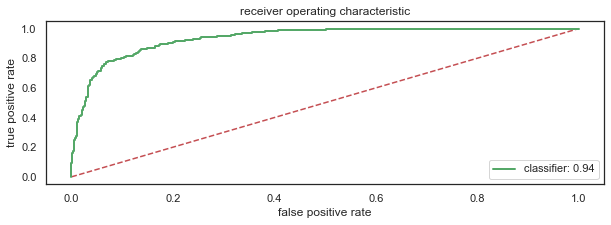
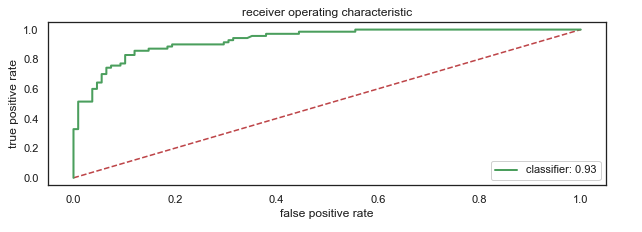
updates

Changed region(s): [[0.0, 0.0311, 0.9951, 0.9644]]

diff --git a/project-three.html b/project-three.html
@@ -92,7 +92,7 @@
                     <p class="body-text2 col-lg-12 col-md-12 wow fadeIn" data-wow-duration="1.5" data-wow-delay="1s">The analysis sought to understand the compounded returns (not including dividends) the index produced in the above time frames.</br></br>
                     A/B were used to infer if the difference in means of prices between decades were statistically significant. The goal was to observe if the closing prices were higher or lower between the time frames and determine the investment risk.</br></br>
                     If the prices were higher in each new decade and statistically significant, intuitively, this was determined to be a positive sign and that the index was producing profits; the opposite was true for the opposite results.</br></br>
-                    In addition to the above, the analysis observed trends in economic data regarding U.S Real GDP, S&P 500 Index EPS, Ten Year U.S Treasury Bond Yields, and Average Annual U.S Inflation to aid in the analysis.</br></br>
+                    In addition to the above, the analysis observed trends in economic data regarding U.S Real GDP, S&P 500 Index EPS, Ten Year U.S Treasury Bond Yields, and Average Annual U.S Inflation over the same time period to aid in the analysis.</br></br>
                     The analysis can be taken advantage of by any individual or entity looking for a valuable investment opportunity.
                     </p>
                 </div>                
@@ -102,16 +102,12 @@
                 <div class="row">
                     <h3 class="sub-head center mt-5 mb-4 col-lg-12 col-md-12 wow fadeIn" data-wow-duration="1.5" data-wow-delay="0.5s">Methods Used</h3>
                     
-                        <div class="col-lg-4 col-md-6 col-sm-12 mt-5 wow fadeInUp" >
+                        <div class="col-lg-6 col-md-6 col-sm-12 mt-5 wow fadeInUp" >
                           <img class="methods" src="/assets/images/method-one.svg" alt="image">
                         </div>
             
-                        <div class="col-lg-4 col-md-6 col-sm-12 mt-5  wow fadeInUp" data-wow-delay="0.1s">
+                        <div class="col-lg-6 col-md-6 col-sm-12 mt-5  wow fadeInUp" data-wow-delay="0.1s">
                           <img class="methods" src="/assets/images/method-three.svg" alt="image">
-                        </div>
-            
-                        <div class="col-lg-4 col-md-6 col-sm-12 mt-5  wow fadeInUp" data-wow-delay="0.2s">
-                          <img class="methods" src="/assets/images/method-six.svg" alt="image">
                         </div>
 
                 </div>
@@ -135,10 +131,9 @@
                         <h5 class="mt-5 bold">Decade 1 and Decade 2:</h5>
                         <a class="fancybox" data-fancybox="images" href="/assets/images/image1.png"><img class="img" src="/assets/images/image1.png" alt="image"></a>
                         <ul>
-                            <li>With 95% confidence, the difference in mean closing prices can be found between <span class="list-bold">- $386.29 and -$366.81 (dist: $166.9, $176.64, $186.38).</span></li>
-                            <li>The index returned a simulated average compounded return of 6% and at no time during the simulation had prices been lesser in decade 2 than in decade 1.</li>
+                            <li>With 95% confidence, the difference in mean closing prices can be found between <span class="list-bold">-$386.29 and -$366.81 (dist: $166.9, $176.64, $186.38).</span></li>
                             <li>If The investor bought the S&P 500 Index at the beginning of Decade 1 and sold at the end of Decade 2 (20 years), the investor would have earned an actual.</li>
-                            <li>20Yrs compounded return of <span class="list-bold">14%.</span></li>
+                            <li>20Yr compounded return of <span class="list-bold">14%.</span></li>
                         </ul>
                     </div>
 
@@ -146,10 +141,9 @@
                         <h5 class="mt-5 bold">Decade 1 and Decade 3:</h5>
                         <a class="fancybox" data-fancybox="images" href="/assets/images/image2.png"><img class="img" src="/assets/images/image2.png" alt="image"></a>
                         <ul>
-                            <li>With 95% confidence, the difference in mean closing prices can be found between <span class="list-bold">- $1056.13 and -$1041.1 (dist: $169.13, $176.64, $184.16).</span></li>
-                            <li>The index returned a simulated average compounded return of 7% and at no time during the simulation had prices been lesser in decade 3 than in decade 1.</li>
+                            <li>With 95% confidence, the difference in mean closing prices can be found between <span class="list-bold">-$1056.13 and -$1041.1 (dist: $169.13, $176.64, $184.16).</span></li>
                             <li>If The investor bought the S&P 500 Index at the beginning of Decade 1 and sold at the end of Decade 3 (30 years), the investor would have earned an actual.</li>
-                            <li>30Yrs compounded return of <span class="list-bold">8%.</span></li>
+                            <li>30Yr compounded return of <span class="list-bold">8%.</span></li>
                         </ul>
                     </div>
 
@@ -157,10 +151,9 @@
                         <h5 class="mt-3 bold">Decade 1 and Decade 4:</h5>
                         <a class="fancybox" data-fancybox="images" href="/assets/images/image3.png"><img class="img" src="/assets/images/image3.png" alt="image"></a>
                         <ul>
-                            <li>With 95% confidence, the difference in mean closing prices can be found between <span class="list-bold">- $1611.35 and -$1566.89 (dist: $154.42, $176.64, $198.88).</span></li>
-                            <li>The index returned a simulated average compounded return of 6% and at no time during the simulation had prices been lesser in decade 4 than in decade 1.</li>
+                            <li>With 95% confidence, the difference in mean closing prices can be found between <span class="list-bold">-$1611.35 and -$1566.89 (dist: $154.42, $176.64, $198.88).</span></li>
                             <li>If The investor bought the S&P 500 Index at the beginning of Decade 1 and sold at the end of Decade 4 (40 years), the investor would have earned an actual.</li>
-                            <li>40Yrs compounded return of <span class="list-bold">8%.</span></li>
+                            <li>40Yr compounded return of <span class="list-bold">8%.</span></li>
                         </ul>
                     </div>
 
@@ -168,10 +161,9 @@
                         <h5 class="mt-3 bold">Decade 2 and Decade 3:</h5>
                         <a class="fancybox" data-fancybox="images" href="/assets/images/image4.png"><img class="img" src="/assets/images/image4.png" alt="image"></a>
                         <ul>
-                            <li>With 95% confidence, the difference in mean closing prices can be found between <span class="list-bold">- $683.86 and -$660.27 (dist: $541.4, $553.19, $564.99).</span></li>
-                            <li>The index returned a simulated average compounded return of 4% and at no time during the simulation had prices been lesser in decade 3 than in decade 2.</li>
+                            <li>With 95% confidence, the difference in mean closing prices can be found between <span class="list-bold">-$683.86 and -$660.27 (dist: $541.4, $553.19, $564.99).</span></li>
                             <li>If The investor bought the S&P 500 Index at the beginning of Decade 2 and sold at the end of Decade 3 (20 years), the investor would have earned an actual.</li>
-                            <li>20Yrs compounded return of <span class="list-bold">6%.</span></li>
+                            <li>20Yr compounded return of <span class="list-bold">6%.</span></li>
                         </ul>
                     </div>
 
@@ -179,10 +171,9 @@
                         <h5 class="mt-3 bold">Decade 2 and Decade 4:</h5>
                         <a class="fancybox" data-fancybox="images" href="/assets/images/image5.png"><img class="img" src="/assets/images/image5.png" alt="image"></a>
                         <ul>
-                            <li>With 95% confidence, the difference in mean closing prices can be found between <span class="list-bold">- $1236.59 and -$1188.55 (dist: $529.18, $553.19, $577.22).</span></li>
-                            <li>The index returned a simulated average compounded return of 4% and at no time during the simulation had prices been lesser in decade 4 than in decade 2.</li>
+                            <li>With 95% confidence, the difference in mean closing prices can be found between <span class="list-bold">-$1236.59 and -$1188.55 (dist: $529.18, $553.19, $577.22).</span></li>
                             <li>If The investor bought the S&P 500 Index at the beginning of Decade 2 and sold at the end of Decade 4 (30 years), the investor would have earned an actual.</li>
-                            <li>30Yrs compounded return of <span class="list-bold">8%.</span></li>
+                            <li>30Yr compounded return of <span class="list-bold">8%.</span></li>
                         </ul>
                     </div>
 
@@ -190,17 +181,18 @@
                         <h5 class="mt-3 bold">Decade 3 and Decade 4:</h5>
                         <a class="fancybox" data-fancybox="images" href="/assets/images/image6.png"><img class="img" src="/assets/images/image6.png" alt="image"></a>
                         <ul>
-                            <li>With 95% confidence, the difference in mean closing prices can be found between <span class="list-bold">- $563.71 and -$517.3 (dist: $1202.06, $1225.26, $1248.47).</span></li>
-                            <li>The index returned a simulated average compounded return of 2% and at no time during the simulation had prices been lesser in decade 4 than in decade 3.</li>
+                            <li>With 95% confidence, the difference in mean closing prices can be found between <span class="list-bold">-$563.71 and -$517.3 (dist: $1202.06, $1225.26, $1248.47).</span></li>
                             <li>If The investor bought the S&P 500 Index at the beginning of Decade 3 and sold at the end of Decade 4 (10 years), the investor would have earned an actual.</li>
-                            <li>20Yrs compounded return of <span class="list-bold">4%.</span></li>
+                            <li>20Yr compounded return of <span class="list-bold">4%.</span></li>
                         </ul>
                     </div>
                 </div>
 
                 <div class="col-lg-12 col-md-12 col-sm-12 mt-5">
-                    <p>The S&P 500 Index has proven to be a profitable investment with a high margin of safety for the long term investor. Over the 40-year time frame, the actual annual compounded return for the index was 9%. A $100,000 investment at the beginning of the 40-year time frame would now be worth $3,140,942 over the 40-year time frame.</p>
-                    <p class="mt-5"><span class="list-bold">Note -</span> The same companies in the value Index may not be suitable for stock picking into today's current environment due to the analysis takes into consideration purchase price and the companies economics may have deteriorated. The Analyst should run the algorithm again and revalue the companies.</p>
+                    <p>The S&P 500 Index has proven to be a profitable investment with a high margin of safety for the long term investor.
+                      Over the 40-year time frame, the actual annual compounded return for the index was 9%.
+                      A $100,000 investment at the beginning of the 40-year time frame would now be worth $3,140,942 over the 40-year time frame.</p>
+                    <p class="mt-5"><span class="list-bold">Note -</span> Also, returns have been slowing down in the recent decade and can be explained, in-part, by the unprecedented low interest rate environment.</p>
                 </div>
 
                 <div class="col-lg-12 col-md-12 col-sm-12 mt-5">

diff --git a/project-one.html b/project-one.html
@@ -83,8 +83,8 @@
                     The season outcomes calculated in the way mentioned above will help predict and understand playoff outcomes more efficiently.</br></br>
                     More than 60% of teams make the playoffs, so the analysis set out to predict teams that did not make the playoffs.</br></br>
                     The entirety of the analysis sought to understand the statistical economics of what NHL team organizations can focus on to reach the post-season.</br></br>
-                    By understanding the economics of what hold teams back from making playoffs, teams can gain more transparency and perspective on what does work with strategy and achieving successful campaigns in mind.</br></br>
-                    Achieving successful campaigns can potentially lead to increased revenue for all stakeholders through ticket sales, salary increases, endorsement deals, fair book value of the organization, greater economic activity for the represented city, etc...
+                    By understanding the economics of what hold teams back from making playoffs, teams can gain more transparency and perspective on what works with strategy and achieving successful campaigns in mind.</br></br>
+                    Achieving successful campaigns can potentially lead to increased revenue for all stakeholders through ticket sales, salary increases, endorsement deals, fair book value of the organization, greater economic activity for the represented city, etc.
                     </p>
                 </div>                
             </div>
@@ -178,7 +178,7 @@
                     <h4 class="bold">Logistic Regression Using Predicted Season Outcomes to Predict Playoff Outcomes</h4>
                   </div>
                   <div class="col-lg-12 col-md-12 col-sm-12 mt-3">
-                      <h5 class="sub">Model Features:</h5>
+                      <h5 class="sub">Model Feature:</h5>
                       <ol>
                           <li><span class="list-bold">Predicted Above the Mean Adjusted Wins</span> (predAboveMeanAdjWins)</li>
                       </ol>
@@ -187,6 +187,7 @@
                           <li><span class="list-bold">Above the Mean Adjusted Wins</span> (aboveMeanAdjWins)</li>
                       </ol>
 
+                      <h5 class="sub mt-5">Model Results on Test Data:</h5>
                       <a class="fancybox" data-fancybox="images" href="/assets/images/ROC_AUC.png"><img class="img" src="/assets/images/ROC_AUC.png" alt="image"></a>
                       <ul>
                           <li><span class="list-bold">Concordance:</span> 0.94</li>
@@ -196,10 +197,10 @@
                       <a class="fancybox" data-fancybox="images" href="/assets/images/CAP_LIFT.png"><img class="img mt-5" src="/assets/images/CAP_LIFT.png" alt="image"></a>
                       <ul>
                           <li><span class="list-bold">Accuracy:</span> 0.86</li>
-                          <li><span class="list-bold">Percision:</span> 0.91</li>
-                          <li><span class="list-bold">Recall:</span> 0.87</li>
+                          <li><span class="list-bold">Percision:</span> 0.94</li>
+                          <li><span class="list-bold">Recall:</span> 0.85</li>
                           <li><span class="list-bold">F1:</span> 0.89</li>
-                          <li><span class="list-bold">Kolmogorov–Smirnov Measure (KS):</span> 43% at the 4th decile, 1.1 time greater than a random model</li>
+                          <li><span class="list-bold">Kolmogorov–Smirnov Measure (KS):</span> 44% at the 4th decile, a cumulative percentage 2.1 times (84% (model) - 40% (random model)) greater than a random model.</li>
                       </ul>
                   </div>
         
@@ -223,7 +224,7 @@
                     <li><span class="list-bold">savesPerGame</span> strive to achieve <span class="list-bold">26.12 </span> saves per game and stay within range <span class="list-bold">25.82, 26.12, 26.42.</span></li>
                     <li><span class="list-bold">failedShotsPerGame</span> strive to achieve <span class="list-bold">27.17 </span> shots per game and stay within range <span class="list-bold">26.91, 27.17, 27.43.</span></li>
                     <li><span class="list-bold">winScoreFirstGreater61_low</span> strive to win <span class="list-bold">82% </span> of games they score first and stay within range <span class="list-bold">75%, 82%, 88%.</span></li>
-                    <li><span class="list-bold">aboveMeanAdjWins</span> strive to achieve <span class="list-bold">4.3 </span> shots per game and stay within range <span class="list-bold">73.62, 4.3, 4.98.</span></li>
+                    <li><span class="list-bold">aboveMeanAdjWins</span> strive to achieve <span class="list-bold">4.3 </span> shots per game and stay within range <span class="list-bold">3.62, 4.3, 4.98.</span></li>
                 </ol>
               </div>
             </div>

diff --git a/project-two.html b/project-two.html
@@ -80,7 +80,7 @@
                     <h3 class="sub-head mt-5 mb-4 col-lg-12 col-md-12 wow fadeIn" data-wow-duration="1.5" data-wow-delay="1s">Project Overview</h3>
                     <p class="body-text2 col-lg-12 col-md-12 wow fadeIn" data-wow-duration="1.5" data-wow-delay="1s">1,613 companies were clustered using 20 years of balance sheet and income statement data collected from the EDGAR API (<a href="https://developer.edgar-online.com/" target="_blank">developer.edgar-online.com</a>).</br></br>
                     The K-Modes clustering algorithm was used to cluster all publicly traded companies in America (excluding delisted companies, companies lacking data, and companies with extreme outliers) based on three financial ratios. The clustering by the three ratios allowed for alike companies to be clustered and analyze future returns per cluster.</br></br>
-                    K-Modes was used because it separated the data best regarding specific thresholds.</br></br>
+                    K-Modes was used because it separated the data best regarding specific thresholds. If the data met the threshold, it would be flagged as 1 and if not it would be flagged 0.</br></br>
                     The analysis sought to prove whether the three financial ratios can quantitatively filter for valuable investments that provided satisfactory returns over time.</br></br>
                     </p>
                     <h5 class="body-text2 col-lg-12 col-md-12 wow fadeIn" data-wow-duration="1.5" data-wow-delay="1s">
@@ -152,7 +152,7 @@
                         <h5 class="mt-3 sub">Cluster Comparison:</h5>
                         <a class="fancybox" data-fancybox="images" href="/assets/images/Cluster_Comparison.png"><img class="img" src="/assets/images/Cluster_Comparison.png" alt="image"></a>
                         <ul>
-                            <li>The top clusters that fit the threshold requirements best returned the higher compounded returns basis cap weighted capital gains (clusters 1 and 7).</li>
+                            <li>The top clusters that fit the threshold requirements best, returned the higher compounded returns basis cap-weighted capital gains (clusters 1 and 7 - Value Index).</li>
                         </ul>
                     </div>
                 </div>

diff --git a/about.html b/about.html
@@ -85,7 +85,7 @@
 
                     <div class="col-lg-8 col-md-12 col-sm-12 wow fadeInRight bio" data-wow-duration="1.5s" data-wow-delay="1s">
                         <h3 class="sub-head">Who am I?</h3>
-                        <p class="body-text">My name is Joey Benvenuto, <span class="list-bold">I'm a Data Scientist, a Problem Solver and a Retail Investor.</span> After turning down a hockey scholarship I couldn’t afford, I knew it was time to dive into a new passion. Data. Now, a boot camp and a Data Analytics diploma later, I’m a highly motivated and result-oriented data analyst with two years of experience working with data. Plus, with over five years of financial analysis experience, including open market investments and consumer banking, I have the industry-relevant and transferrable skills that allow me to bring immediate and strategic value to my next opportunity.</p>
+                        <p class="body-text">My name is Joey Benvenuto, <span class="list-bold">I'm a Data Analyst, a Problem Solver and a Retail Investor.</span> After turning down a hockey scholarship I couldn’t afford, I knew it was time to dive into a new passion. Data. Now, a boot camp and a Data Analytics diploma later, I’m a highly motivated and result-oriented data analyst with two years of experience working with data. Plus, with over five years of financial analysis experience, including open market investments and consumer banking, I have the industry-relevant and transferrable skills that allow me to bring immediate and strategic value to my next opportunity.</p>
                         <a href="/assets/images/Josepp_Benvenuto - Google Docs.pdf" target="_blank" class="btn1"><i class="fas fa-download"></i><span class="download">See Resume</span></a>
                        <a href="#tools-section" class="btn2"><i class="fas fa-arrow-down"></i><span class="more">Learn More</span></a></br>
                     </div>

diff --git a/assets/js/index.js b/assets/js/index.js
@@ -1,13 +1,13 @@
-$(".loader").delay(1000).fadeOut("slow");
-$("#overlayer").delay(1000).fadeOut("slow");
+$('.loader').delay(1000).fadeOut('slow');
+$('#overlayer').delay(1000).fadeOut('slow');
 
 jQuery(function () {
-	$(".fancybox").fancybox({});
+	$('.fancybox').fancybox({});
 });
 
-document.addEventListener("DOMContentLoaded", function () {
-	var typed = new Typed(".type", {
-		strings: ["Data Scientist.", "Retail Investor.", "Problem Solver."],
+document.addEventListener('DOMContentLoaded', function () {
+	var typed = new Typed('.type', {
+		strings: ['Data Analyst.', 'Retail Investor.', 'Problem Solver.'],
 		stringsElement: null,
 		// typing speed
 		typeSpeed: 60,
@@ -24,19 +24,19 @@ document.addEventListener("DOMContentLoaded", function () {
 		// show cursor
 		showCursor: false,
 		// character for cursor
-		cursorChar: "|",
+		cursorChar: '|',
 		// attribute to type (null == text)
 		attr: null,
 		// either html or text
-		contentType: "html",
+		contentType: 'html',
 	});
 });
 
-const hamburgerButton = document.querySelector(".hamburger-button");
-const overlay = document.querySelector(".overlay");
+const hamburgerButton = document.querySelector('.hamburger-button');
+const overlay = document.querySelector('.overlay');
 
-hamburgerButton.addEventListener("click", (e) => {
+hamburgerButton.addEventListener('click', (e) => {
 	e.preventDefault();
-	hamburgerButton.classList.toggle("active");
-	overlay.classList.toggle("visible");
+	hamburgerButton.classList.toggle('active');
+	overlay.classList.toggle('visible');
 });

diff --git a/projects2.html b/projects2.html
@@ -88,7 +88,7 @@
                         </div>
                         <div class="panel" style="background-image: url('/assets/images/Office.png')">
                             <h3>Company Cluster Analysis</h3>
-                            <p class="blurb">1,613 companies were clustered using 20 years of balance sheet and income statement data collected from the EDGAR API (URL: developer.edgar-online.com)</p>
+                            <p class="blurb">1,613 companies were clustered using 20 years of balance sheet and income statement data collected from the EDGAR API.</p>
                             <a href="project-two.html">Learn More<i class="fas fa-arrow-right"></i></a>
                         </div>
                         <div class="panel" style="background-image: url('/assets/images/stocks.png')">

diff --git a/project-four.html b/project-four.html
@@ -165,6 +165,10 @@
               </div>
 
               <div class="col-lg-3 col-md-6 col-sm-12  wow fadeInUp" data-wow-delay="0.3s">
+                <img class="tiles" src="/assets/images/workbench-tile.svg" alt="image">
+              </div>
+
+              <div class="col-lg-3 col-md-6 col-sm-12  wow fadeInUp" data-wow-delay="0.3s">
                 <img class="tiles" src="/assets/images/excel-tile.svg" alt="image">
               </div>
 
